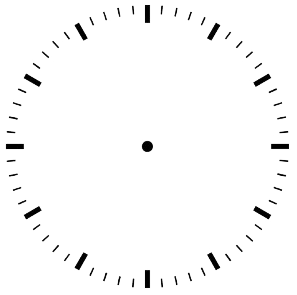
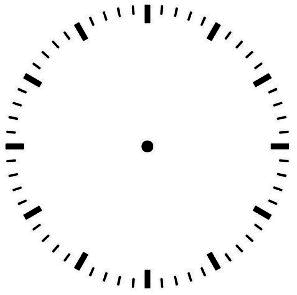
修改

diff --git a/index.html b/index.html
@@ -11,16 +11,28 @@
 			position: relative;
 		}
 		body{
-			background-image: url(img/3fa82a1992f4fb90a09d8b141655093c.jpg);
-			background-size:100% ;
+			margin: 0;
+			padding: 0;
+
+			background-image: url(img/qp.jpg);
+		}
+		#bj{
+			position: absolute;
+			top:0;
+			left: 0;
+			right: 0;
+			bottom: 0;
+			background-image: url(img/qp.jpg);
+			background-repeat: no-repeat;
+			background-size: 100%;
 		}
 		#canvas2{
 			display: block;
-
 			position: absolute;
 			top: 20px;
 			left: 20px;
-						background-image: url(img/bp1.png);
+			background-image: url(img/bp1.png);
+			background-size: 100%;
 			}
 		
 		#canvas3{
@@ -118,7 +130,7 @@
 			position:fixed;
 			width: 200px;
 			height:50px;
-			background: #000;	
+
 			bottom:0;
 			margin: auto;
 			text-align: center;
@@ -129,7 +141,7 @@
 			color:#000;
 			cursor:pointer;
 			font-weight: bold;
-			background-image: url(img/qp.jpg);
+/*			background-image: url(img/qp.jpg);*/
 		}
 		.delect{
 			width:30px;
@@ -147,69 +159,89 @@
 		    background-image: url(img/qp.jpg);
 		}
 		.chioce{
-			width:200px;
-			height:180px;			
+
 			position:fixed;
-			top:382px;
-			
-			left:0px;
+			top:100px;			
+			right:0px;
 			margin:auto;
 			z-index:1000;
 			/*background: #fff;*/
-			background-image: url(img/qp.jpg);
+			/*background-image: url(img/qp.jpg);*/
 			background-size:100%
 		}
 		.chioce .ss{
+			position:absolute;
+			top: 150px;
+			left: -100px;
 			width:200px;
 			font-size:30px;
 			font-weight: bold;
 			cursor:pointer;
 		}
 		.chioce .ai{
-			width:200px;
-			height:50px;
+			position:absolute;
+			top: 200px;
+			left: -50px;		
 			line-height:50px;
 			text-align:center;
 			font-size:30px;
 			font-weight: bold;
 			cursor:pointer;
+			width:200px;
+			height:50px;
+			border-radius: 50%;
+			background: #e66c22;
 		}
 		.chioce .normal{
-			width:200px;
-			height:50px;
+			position:absolute;
+			top: 280px;
+			left: -50px;
 			line-height:50px;
 			text-align:center;
 			font-weight: bold;
 			font-size:30px;
 			cursor:pointer;
+			width:200px;
+			height:50px;
+			border-radius: 50%;
+			background: #e66c22;
 		}
 		.chioce .cxks{
-			width:200px;
-			height:50px;
+			top: 360px;
+			left: -50px;		
 			line-height:50px;
 			text-align:center;
 			font-weight: bold;
 			font-size:30px;
 			cursor:pointer;
+			width:200px;
+			height:50px;
+			border-radius: 50%;
+			background: #e66c22;
 		}
 		.color{
 			color:red;
 		}
-
+		.hlwzq{
+			position: fixed;
+			top: 50px;
+			right: 50px;
+		}
 			
 	</style>
 	<body>
+		<div id='bj'></div>
 			<audio src="097.wav" id='audio1'></audio>
 			<audio src="098.wav" id='audio2'></audio>
 			<canvas id="canvas" width="600" height="600"></canvas>
-			<canvas id="canvas2" width="300" height="300"></canvas>
-			<canvas id="canvas3" width="300" height="300"></canvas>
+			<canvas id="canvas2" width="200" height="200"></canvas>
+			<canvas id="canvas3" width="200" height="200"></canvas>
 			 <div class="box">
 		    	<div class="delect">
 		    		×
 		    	</div>
 		    </div>
-		    <div class="look">查看棋谱</div>
+
 		    <div class="info">
 		    	<div id="text">
 		    		<span>赢</span>
@@ -220,6 +252,9 @@
 		    	<div class="button cancal">
 		    		退出
 		    	</div>
+		    </div>
+		    <div class='hlwzq'>
+		    	欢乐五子棋
 		    </div>
 		    <div class="chioce">
 		    	<div class='ss'>
@@ -234,6 +269,7 @@
 		    	<div class='cxks'>
 		    		重新开始
 		    	</div>
+		  	  <div class="look">查看棋谱</div>
 		    </div>
 		
 	</body>

diff --git a/js/wuziqi.js b/js/wuziqi.js
@@ -357,6 +357,7 @@
         $(".look").on("click",function(){
         	manual()
         	$(".box").addClass("activea")
+        	        		circledy();
         })
        
         //去除棋谱谱
@@ -368,6 +369,7 @@
         		var x=parseInt(k.split("_")[0]);
         		var y=parseInt(k.split("_")[1]);
         		luozi(x,y,qizi[k])
+        		circledy();
         	}
         })        
         
@@ -411,9 +413,9 @@
 		function wz1(color){
 			ctxa.save();
 			ctxa.beginPath();
-			ctxa.translate(150,150);
+			ctxa.translate(100,100);
 			ctxa.font='30px/1  微软雅黑';
-			ctxa.fillStyle='#000';
+			ctxa.fillStyle='#fff';
 			ctxa.textAlign='center';
 			ctxa.textBaseline='middle';
 			ctxa.fillText('计         时',0,0);			
@@ -426,13 +428,13 @@
 			ctxa.save()		
 			ctxa.beginPath();			
 
-			ctxa.translate(150,150)
+			ctxa.translate(99,99)
 			
-			ctxa.arc(0,0,20,0,Math.PI*2)
-			ctxa.moveTo(0,20)
+			ctxa.arc(0,0,10,0,Math.PI*2)
+			ctxa.moveTo(0,10)
 			ctxa.lineTo(0,40)
-			ctxa.moveTo(0,-20)
-			ctxa.lineTo(0,-120)
+			ctxa.moveTo(0,-10)
+			ctxa.lineTo(0,-70)
 			ctxa.closePath();
 			ctxa.stroke()
 			ctxa.restore();
